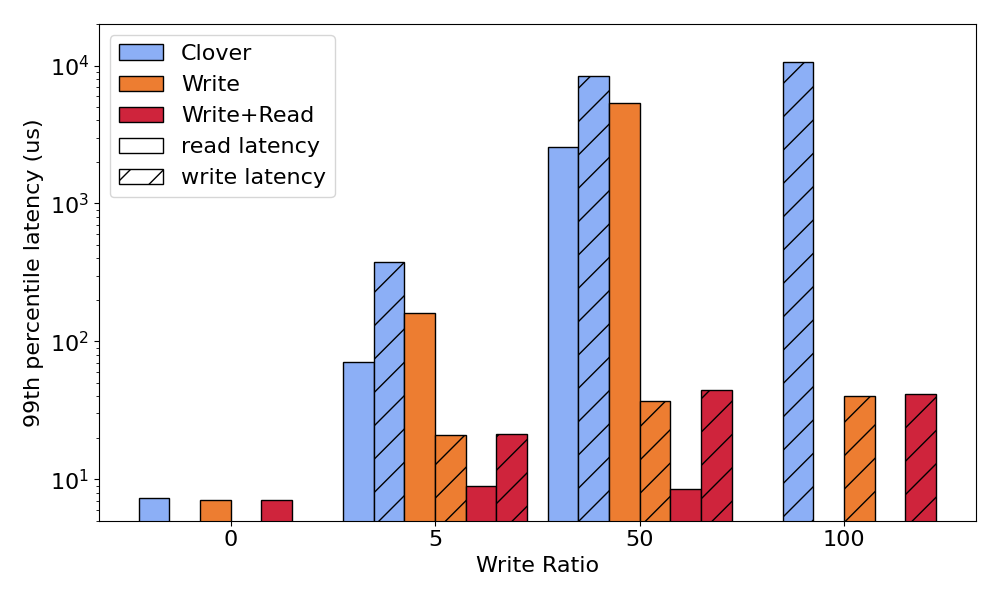
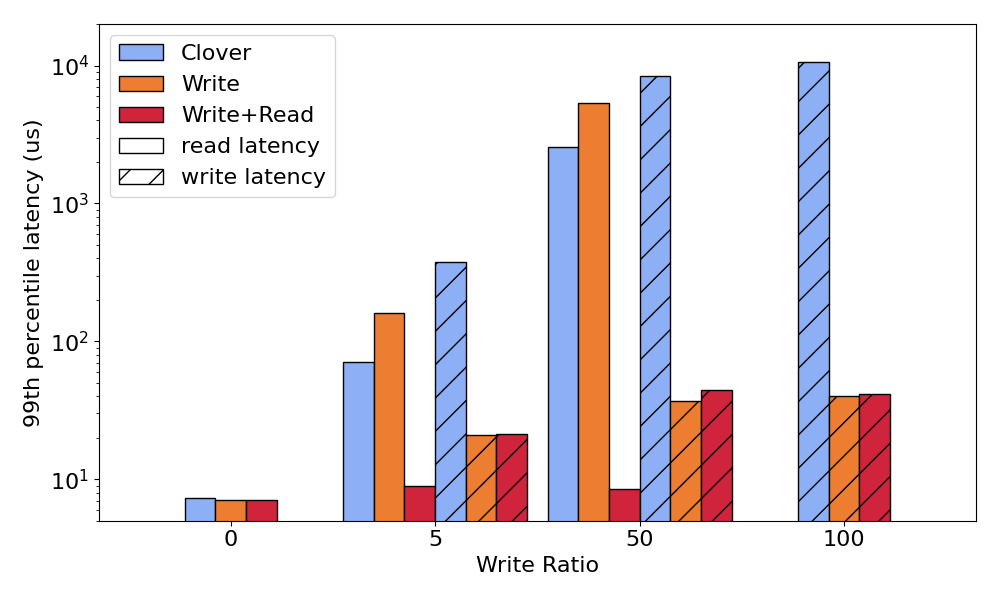
DPDK excuse

diff --git a/papers/NSDI23/implementation.tex b/papers/NSDI23/implementation.tex
@@ -237,5 +237,118 @@ hash of virtual addresses in only a few cycles.
 %---which can likely be
 %implemented on programable switch hardware.
 
+\subsection{DPDK vs P4}
+
+\{sword}is implemented in P4 and run on a programmable switch, however its
+connection mapping functionality is only implemented in DPDK due to hardware
+limitations on the programmable switch, and on ConnextX-5 NICs. In this section
+we describe why the space and logical complexity of tracking outstanding
+requests, and reversing the effects of ACK coalescing is prohibitively hard on
+current hardware and suggest small hardware modifications which would make the
+implementation simple.
+
+\textbf{Connection Mapping:} Connection mapping requires the storage of a 64 bit
+mapping entry for each in flight request. These map entries are space concern on
+programmable switches. Mapped entries are stored per connection. When an request
+is mapped to a connection the entry is generated, when a response returns the
+entry is removed.In the worst case, any connection may need to store
+outstanding requests for the total number of connected clients as each client
+could asynchronously issue a request for the same lock concurrently. 
+
+We use connection sequence numbers to look up requests as they are unique for
+each connection, have no collisions, and only require an offset for lookup
+($sequence_number \% max_clients$). The programmable switch requires that all
+storage be allocated at compile time, so we need to provision for the worst case
+scenario.  The space requirement grows $O(n^2)$ with the number of clients as
+each connection must be statically allocated with enough space to handel a worst
+case burst.
+
+Given static allocation if we want to support 512 client threads (the order of
+our experiments), in the worst case we need 1024 * 1024 * 8 bytes of connection
+storage. 8MB is not much storage, but on our Tofino switch this represents 1/4
+of the total SRAM assuming the compiler packs requests perfectly. Unfortunately
+this is unlikely the case.  Making this mater worse is that much of switch
+memory is allocated into 8 and 16 bit registers. Only a few are allocated to
+read and write 32 bits. 2 pipeline stages are the minimum for connection
+remapping storage. In the worst case 8 are required (an entire pipeline). While
+expensive this is not a prohibitive cost to implementation.
+
+We could use a shared hash table with the lookup $concat(qp_id,Sequence_number)$
+however due to stage lookups we would need to double the size of the shared hash
+table for each hash collision. It also increases the size of each entry from 64
+to 88 requiring 3 stages to store. as we need to store qp information in each
+entry to detect collisions.  Each collision detection also requires an
+additional stage to run a conditional comparison. A chain of 2 collisions
+therefore would require 8 stages, our entire egress pipeline to resolve. Given
+that we are processing millions of packets per second on a maximum sized hash
+table of 16k entries, collisions of 3 or more are common.
+
+\textbf{RDMA Coalescing:} Our greatest unmet challenge with connection mapping
+in P4 dealing with RDMA coalescing. When a response is mapped back to a client
+it may be a coalesced response, if so the prior map entry must be checked and an
+ack generated for that entry. This is an iterative process as a single response
+can have coalesced many other responses.
+
+In dpdk this search and packet generation implemented in a 3 line function with
+a for loop. In p4 it this functionality was prohibitively difficult to engineer.
+The complexity is caused by the need to both search multiple entries of the
+outstanding connection list which is not supported by P4 table lookups. In P4
+each stage of the pipeline holds unique data and supports a single lookup of the
+specified register size (8,16,32), as such we are unable to look up a variable
+number of requests to generated coalesced ACKs.
+
+One option would have been to duplicate data, so that if a coalesce did occur,
+it could be detected by reading duplicate data in the next stage.  The
+difficulty is that under aggressive contention the coalescing 10 or more ACKS is
+a common occurrence and duplicate stages would be required for each coalesced
+response. Given that a 64 bit entry requires two stages duplicating is not an
+option as it would easily exhaust all pipeline stages and never guarantee
+correctness.
+
+\sg{I don't actually know if this would work, it's a complex guess}
+
+Another option is to use packet recirculation. We could duplicate data once, and
+perform a look back to the prior entry to determine if it was coalesce and then
+generate another packet to handle the handle the coalesced ack. 
+%%
+Performing this iteratively could generate all the required ACKs. However it
+dramatically increases complexity and inverts the order of packet delivery on
+the clients.
+
+\textbf{Conditional Complexity:} The final difficulty in implementing connection
+mapping on a programmable switch is the complexity of conditional statements. In
+P4 architectures branching is limited. At any conditional a max of 4 paths can
+exist.  In clover we reduced the total number of branching statements to 4 for
+each of the read, write, CAS, and ACK pathways. Connection remapping requires
+complex logic and arithmetic for generating message sequence numbers, storing
+request stubs across different register sizes, and detecting, and generating
+coalesced ACKs.  Separately none of these issues are enough to prevent the
+implementation of connection remapping on a programmable switch. However in
+concert the P4 complier was not able to synthesize a program which could fit
+into our 16 stages of the Tofino 1. Future hardware such as Tofino 2 and 3 would
+likely be able to support this functionality due to having over double the
+pipeline logic.
+
+\subsubsection{Potential Fixes}
+
+\textbf{Dynamic Memory Allocation:}
+Statically allocating 1024 slots for each client is prohibitively expensive as
+it grows with $O(n^2)$ due to static memory allocation. The actual required
+amount of space is $O(n)$ as that is the total number of in flight requests. If
+we could resize our allocations for each connection dynamically (stealing some
+memory from under utilized connections) We would be able to decrease our memory
+utilization to $O(n)$. This is a trivial task with an allocator and pointers, but
+a prohibitively hard task with static registers and single stage lookups.
+
+\textbf{Turn off coalescing} The most complex part of connection remapping is
+calculating coalesced ACKs. The fix for this is simple: Turn off ACK coalescing
+on the NIC, as it is only a performance optimization. This fix alone would allow
+our design to fit onto a Tofino chip.
+
+
+
+
+
+
 
 

diff --git a/papers/NSDI23/fig/99th_latency_dense.py b/papers/NSDI23/fig/99th_latency_dense.py
@@ -73,8 +73,8 @@ clover_w=[0,373384,8439914,10522757]
 write_w=[0,21083,37016,40251]
 read_w=[0,21361,44432,41735]
 
-wins(clover_r,read_r)
-wins(clover_w,read_w)
+# wins(clover_r,read_r)
+# wins(clover_w,read_w)
 
 clover_r=div_thousand_rw(clover_r)
 write_r=div_thousand_rw(write_r)
@@ -83,8 +83,14 @@ clover_w=div_thousand_rw(clover_w)
 write_w=div_thousand_rw(write_w)
 read_w=div_thousand_rw(read_w)
 
+def shuffle_x(arr,distance):
+    for i in range(len(arr)):
+        arr[i].xy=(arr[i].xy[0]+distance,arr[i].xy[1])
+    return
+
 
 x = np.arange(len(labels))  # the label locations
+print(x)
 width = master_width/3  # the width of the bars
 
 div=1
@@ -92,11 +98,16 @@ div=1
 widths=[x - (width * 2 + width/2),x - (width + width/2), x - width/2, x + width/2, x + (width + width/2), x + (width * 2 + width/2)]
 i=0
 rects_clover_r = ax1.bar(widths[i], clover_r, width, label='Clover',color=default_clover_color,edgecolor='k'); i=i+1
-rects_clover_w = ax1.bar(widths[i], clover_w, width, label='Clover',color=default_clover_color,edgecolor='k',hatch='/'); i=i+1
 rects_write_r = ax1.bar(widths[i], write_r, width, label='Write',color=write_steering_color,edgecolor='k'); i=i+1
-rects_write_w = ax1.bar(widths[i], write_w, width, label='Write',color=write_steering_color,edgecolor='k',hatch='/'); i=i+1
 rects_read_r = ax1.bar(widths[i], read_r, width, label='Write+Read',color=read_write_steering_color,edgecolor='k'); i=i+1
+rects_clover_w = ax1.bar(widths[i], clover_w, width, label='Clover',color=default_clover_color,edgecolor='k',hatch='/'); i=i+1
+rects_write_w = ax1.bar(widths[i], write_w, width, label='Write',color=write_steering_color,edgecolor='k',hatch='/'); i=i+1
 rects_read_w = ax1.bar(widths[i] , read_w, width, label='Write+Read',color=read_write_steering_color,edgecolor='k',hatch='/'); i=i+1
+
+shuffle=[]
+
+shuffle_x([rects_clover_r[0],rects_write_r[0],rects_read_r[0]],width + width/2)
+shuffle_x([rects_clover_w[3],rects_write_w[3],rects_read_w[3]],-(width + width/2))
 
 
 
@@ -114,8 +125,6 @@ p2= Patch(facecolor='white', edgecolor='k', hatch="/", label='write_latency')
 custom_lines = [rects_clover_r,rects_write_r,rects_read_r,p1,p2]
 
 ax1.legend(custom_lines, ["Clover", "Write", "Write+Read", "read latency", "write latency"])
-
-#//ax.bar_label(rects2, padding=3)
 figure_name="99th_latency_dense"
 plt.tight_layout()
 plt.savefig(figure_name+'.pdf')
